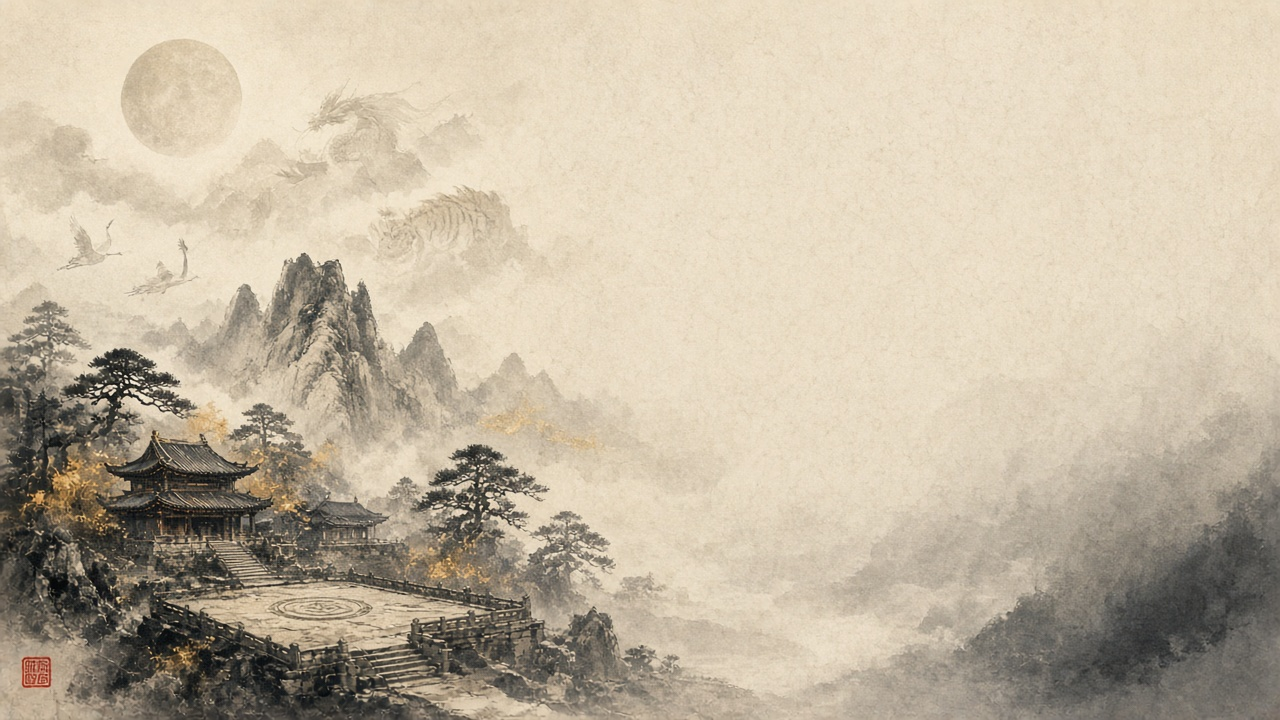
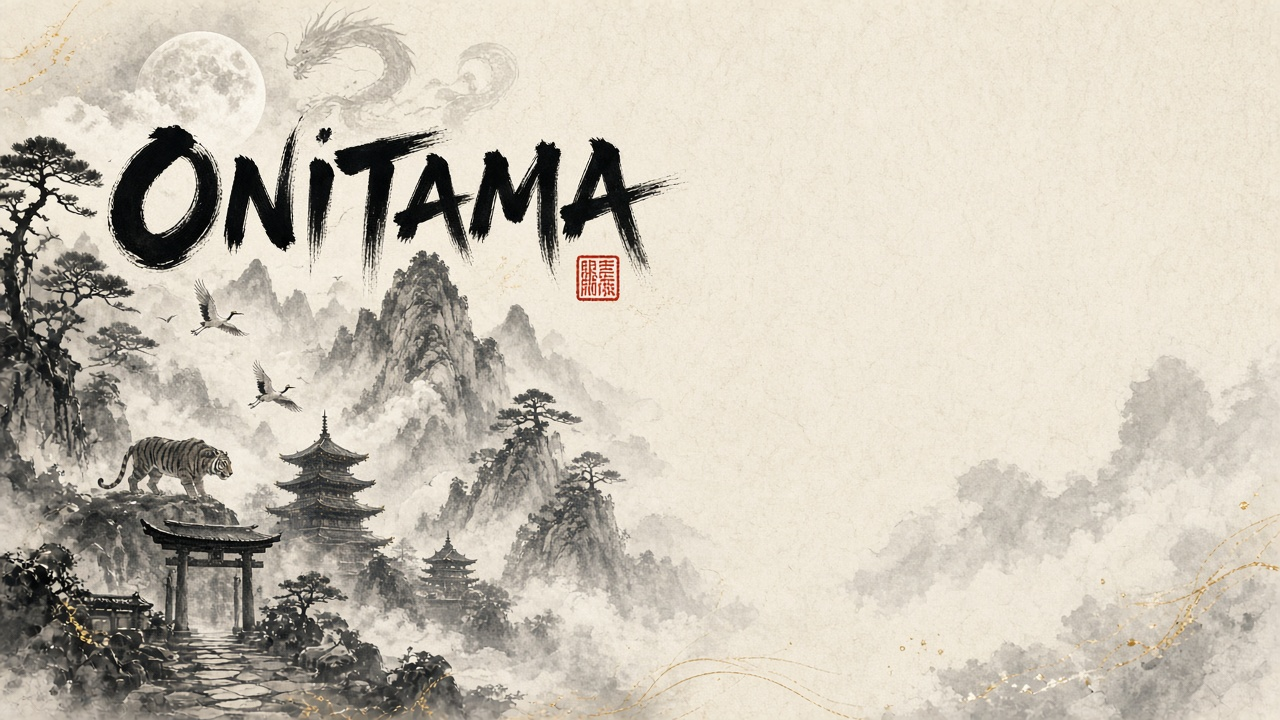
M9: brush-calligraphy lobby background with baked-in title (title chip removed)

diff --git a/src/main/java/onitama/client/ui/LobbyPanel.java b/src/main/java/onitama/client/ui/LobbyPanel.java
@@ -164,15 +164,8 @@ public final class LobbyPanel extends JPanel {
         JPanel header = new JPanel(new BorderLayout());
         header.setOpaque(false);
 
-        JPanel titleBlock = UiKit.sticker(12);
-        titleBlock.setLayout(new GridLayout(2, 1, 0, 0));
-        JLabel title = new JLabel("ONITAMA");
-        title.setFont(Theme.display(38f));
-        title.setForeground(Theme.INK);
-        JLabel tagline = UiKit.inkLabel("ONLINE · THE ANCIENT GAME OF MOVEMENT", 11f);
-        titleBlock.add(title);
-        titleBlock.add(tagline);
-        header.add(titleBlock, BorderLayout.WEST);
+        // The painting carries the ONITAMA title; only the profile sits here.
+        header.add(new JLabel(), BorderLayout.WEST);
 
         JPanel profile = UiKit.sticker(10);
         profile.setLayout(new FlowLayout(FlowLayout.LEFT, 8, 2));
